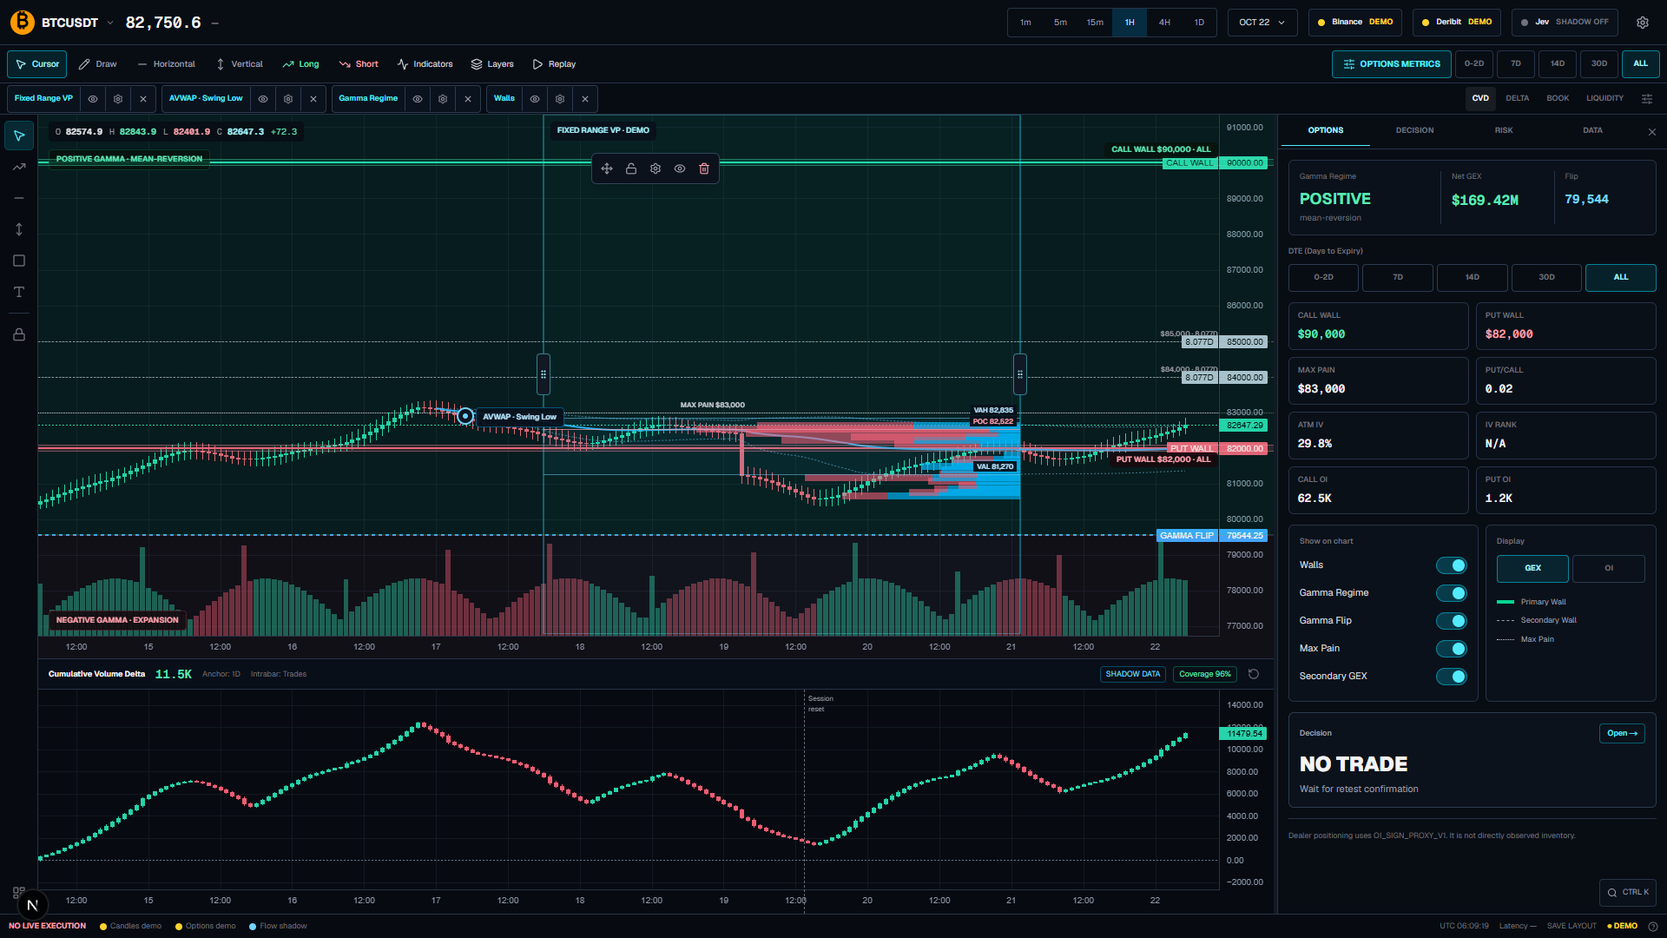
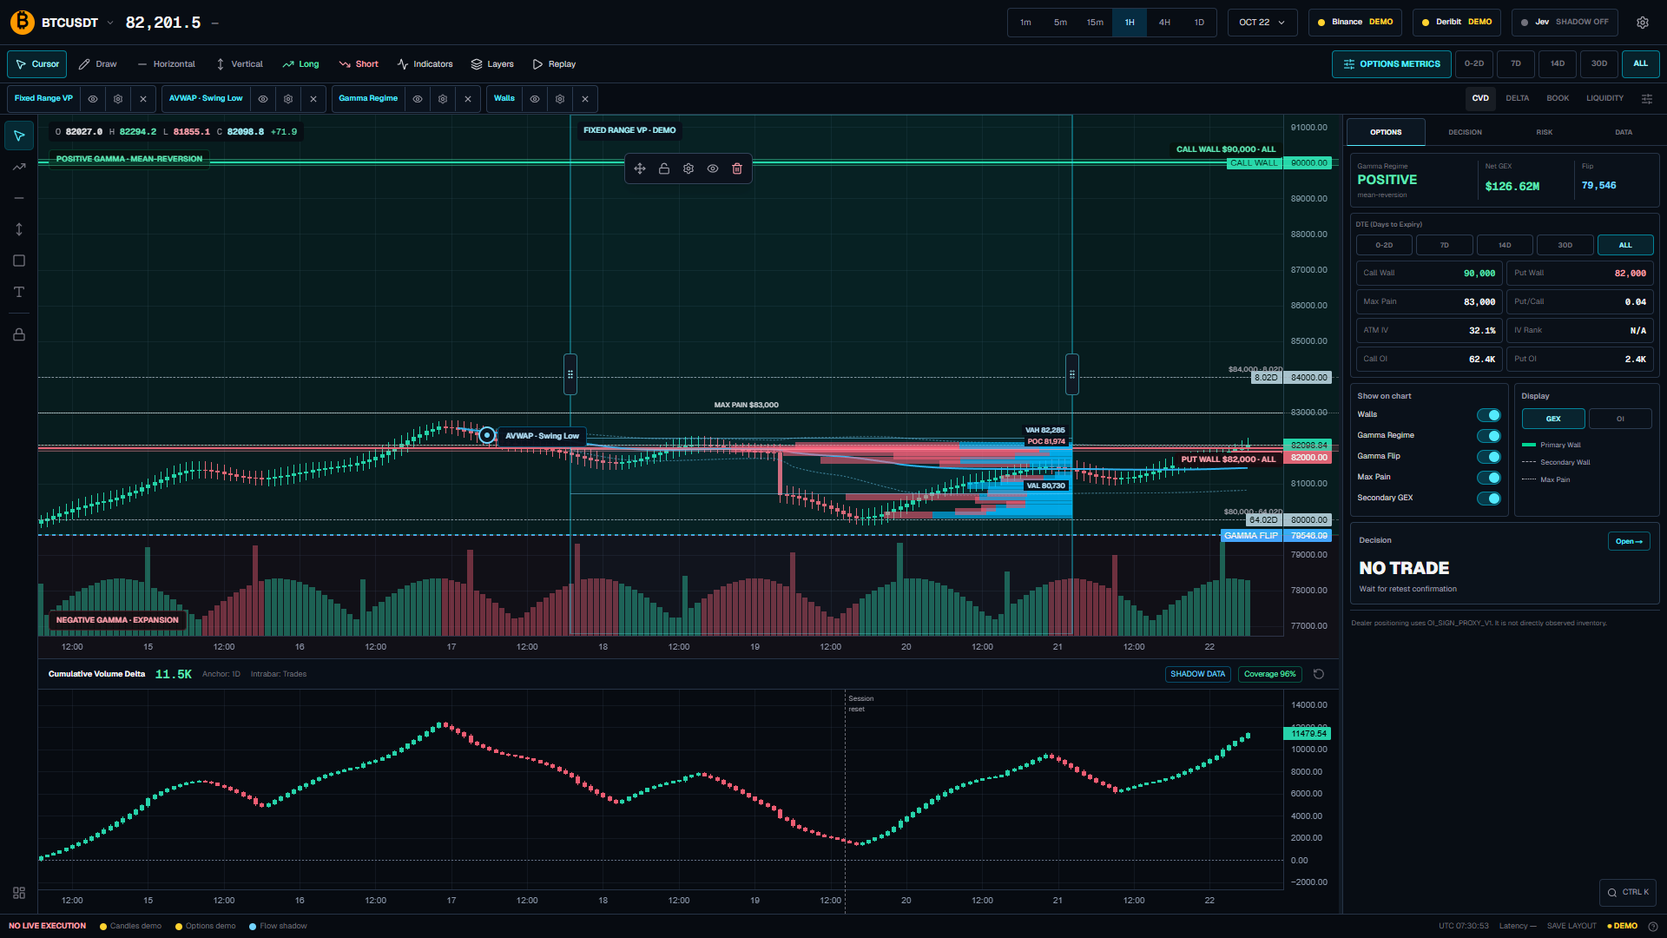
refine compact options inspector

diff --git a/src/components/terminal/MarketTerminal.tsx b/src/components/terminal/MarketTerminal.tsx
@@ -129,8 +129,13 @@ function Metric({ label, value, tone = 'neutral' }: { label: string; value: stri
     return <div className="rounded-md border border-[#253347] bg-[#0a1018] px-2.5 py-2"><div className="truncate text-[9px] font-semibold uppercase text-zinc-500">{label}</div><div className={cn('mt-1 font-mono text-[13px] font-semibold tabular-nums', color)}>{value}</div></div>;
 }
 
-function LayerToggle({ label, checked, onCheckedChange }: { label: string; checked: boolean; onCheckedChange: () => void }) {
-    return <div className="flex items-center justify-between gap-4 py-1.5"><span className="text-[11px] text-zinc-300">{label}</span><Switch.Root aria-label={`Toggle ${label}`} checked={checked} onCheckedChange={onCheckedChange} className="relative h-5 w-9 rounded-full border border-[#2a3748] bg-[#111a25] data-[state=checked]:border-cyan-400/50 data-[state=checked]:bg-cyan-500/25"><Switch.Thumb className="block size-3.5 translate-x-0.5 rounded-full bg-zinc-400 transition-transform duration-150 data-[state=checked]:translate-x-[18px] data-[state=checked]:bg-cyan-300 motion-reduce:transition-none" /></Switch.Root></div>;
+function LayerToggle({ label, checked, onCheckedChange, compact: isCompact = false }: { label: string; checked: boolean; onCheckedChange: () => void; compact?: boolean }) {
+    return <div className={cn('flex items-center justify-between gap-3', isCompact ? 'py-1' : 'py-1.5')}><span className={cn('truncate text-zinc-300', isCompact ? 'text-[9px]' : 'text-[11px]')}>{label}</span><Switch.Root aria-label={`Toggle ${label}`} checked={checked} onCheckedChange={onCheckedChange} className={cn('relative shrink-0 rounded-full border border-[#2a3748] bg-[#111a25] data-[state=checked]:border-cyan-400/50 data-[state=checked]:bg-cyan-500/25', isCompact ? 'h-4 w-7' : 'h-5 w-9')}><Switch.Thumb className={cn('block translate-x-0.5 rounded-full bg-zinc-400 transition-transform duration-150 data-[state=checked]:bg-cyan-300 motion-reduce:transition-none', isCompact ? 'size-3 data-[state=checked]:translate-x-[13px]' : 'size-3.5 data-[state=checked]:translate-x-[18px]')} /></Switch.Root></div>;
+}
+
+function InspectorMetric({ label, value, tone = 'neutral' }: { label: string; value: string; tone?: 'neutral' | 'positive' | 'negative' }) {
+    const color = tone === 'positive' ? 'text-emerald-300' : tone === 'negative' ? 'text-rose-300' : 'text-zinc-100';
+    return <div className="flex min-w-0 items-center justify-between gap-2 rounded border border-[#253347] bg-[#0a1018] px-2 py-1.5"><span className="truncate text-[9px] text-zinc-500">{label}</span><span className={cn('shrink-0 font-mono text-[10px] font-semibold tabular-nums', color)}>{value}</span></div>;
 }
 
 function ToolButton({ active, label, icon: Icon, onClick, tone }: { active?: boolean; label: string; icon: React.ElementType; onClick: () => void; tone?: 'long' | 'short' }) {
@@ -150,13 +155,12 @@ function StudyChip({ label, visible, onToggle, description }: { label: string; v
 function OptionsContent({ metrics, data, isError }: { metrics: MarketMetrics; data: TerrainDataContractV2; isError: boolean }) {
     const { dataMode, dteFilter, setDteFilter, chartLayers, toggleChartLayer, optionsDisplay, setOptionsDisplay, setInspectorTab } = useTerminalStore();
     const decisionReason = Math.abs((metrics.spot - metrics.gammaFlip) / metrics.spot) < 0.012 ? 'Wait for Gamma Flip confirmation' : 'Wait for retest confirmation';
-    return <div className="space-y-3 p-3">
-        <div className="grid grid-cols-[1.25fr_1fr_0.8fr] divide-x divide-[#263346] rounded-md border border-[#263346] bg-[#0a111a] p-3"><div><div className="text-[9px] text-zinc-500">Gamma Regime</div><div className={cn('mt-1 text-lg font-bold', metrics.longGamma ? 'text-emerald-300' : 'text-rose-300')}>{metrics.longGamma ? 'POSITIVE' : 'NEGATIVE'}</div><div className="text-[10px] text-zinc-500">{metrics.longGamma ? 'mean-reversion' : 'expansion'}</div></div><div className="pl-3"><div className="text-[9px] text-zinc-500">Net GEX</div><div className={cn('mt-2 font-mono text-base font-bold tabular-nums', metrics.longGamma ? 'text-emerald-300' : 'text-rose-300')}>{compact(metrics.netGex, '$')}</div></div><div className="pl-3"><div className="text-[9px] text-zinc-500">Flip</div><div className="mt-2 font-mono text-sm font-bold tabular-nums text-sky-300">{Math.round(metrics.gammaFlip).toLocaleString()}</div></div></div>
-        <div><div className="mb-2 text-[9px] font-semibold text-zinc-500">DTE (Days to Expiry)</div><div className="grid grid-cols-5 gap-1">{DTE_FILTERS.map((filter) => <button key={filter} type="button" onClick={() => setDteFilter(filter)} className={cn('h-8 rounded border text-[9px] font-bold', dteFilter === filter ? 'border-cyan-400/55 bg-cyan-400/10 text-cyan-200' : 'border-[#2b3b50] text-zinc-500 hover:text-zinc-200')}>{filter}</button>)}</div></div>
-        <div className="grid grid-cols-2 gap-2"><Metric label="Call Wall" value={`$${Math.round(metrics.callWall).toLocaleString()}`} tone="positive" /><Metric label="Put Wall" value={`$${Math.round(metrics.putWall).toLocaleString()}`} tone="negative" /><Metric label="Max Pain" value={`$${Math.round(metrics.maxPain).toLocaleString()}`} /><Metric label="Put/Call" value={metrics.putCallRatio === undefined ? '—' : metrics.putCallRatio.toFixed(2)} /><Metric label="ATM IV" value={metrics.atmIv === undefined ? '—' : `${(metrics.atmIv > 3 ? metrics.atmIv : metrics.atmIv * 100).toFixed(1)}%`} /><Metric label="IV Rank" value="N/A" /><Metric label="Call OI" value={compact(metrics.callOi)} /><Metric label="Put OI" value={compact(metrics.putOi)} /></div>
-        <div className="grid grid-cols-[1fr_0.9fr] gap-2"><div className="rounded-md border border-[#263346] bg-[#0a111a] p-3"><div className="mb-1 text-[9px] font-semibold text-zinc-500">Show on chart</div><LayerToggle label="Walls" checked={chartLayers.walls} onCheckedChange={() => toggleChartLayer('walls')} /><LayerToggle label="Gamma Regime" checked={chartLayers.gammaRegime} onCheckedChange={() => toggleChartLayer('gammaRegime')} /><LayerToggle label="Gamma Flip" checked={chartLayers.gammaFlip} onCheckedChange={() => toggleChartLayer('gammaFlip')} /><LayerToggle label="Max Pain" checked={chartLayers.maxPain} onCheckedChange={() => toggleChartLayer('maxPain')} /><LayerToggle label="Secondary GEX" checked={chartLayers.secondaryWalls} onCheckedChange={() => toggleChartLayer('secondaryWalls')} /></div><div className="rounded-md border border-[#263346] bg-[#0a111a] p-3"><div className="text-[9px] font-semibold text-zinc-500">Display</div><div className="mt-2 grid grid-cols-2 gap-1">{(['GEX', 'OI'] as const).map((display) => <button key={display} type="button" onClick={() => setOptionsDisplay(display)} className={cn('h-8 rounded border text-[9px] font-bold', optionsDisplay === display ? 'border-cyan-400/55 bg-cyan-400/10 text-cyan-200' : 'border-[#2b3b50] text-zinc-500')}>{display}</button>)}</div><div className="mt-4 space-y-2 text-[9px] text-zinc-400"><div className="flex items-center gap-2"><span className="h-1 w-5 bg-emerald-400" />Primary Wall</div><div className="flex items-center gap-2"><span className="w-5 border-t border-dashed border-zinc-400" />Secondary Wall</div><div className="flex items-center gap-2"><span className="w-5 border-t border-dotted border-zinc-300" />Max Pain</div></div></div></div>
-        <div className="rounded-md border border-[#2a3c50] bg-[#0b121b] p-3"><div className="flex items-center justify-between"><span className="text-[9px] font-semibold text-zinc-400">Decision</span><button type="button" onClick={() => setInspectorTab('DECISION')} className="rounded border border-cyan-400/40 px-2 py-1 text-[9px] font-semibold text-cyan-300">Open →</button></div><div className="mt-2 text-2xl font-black text-zinc-100">NO TRADE</div><p className="mt-1 text-pretty text-[11px] text-zinc-400">{decisionReason}</p></div>
-        <p className="text-pretty border-t border-[#263346] pt-3 text-[9px] leading-relaxed text-zinc-500">Dealer positioning uses {data.assumptionModel}. It is not directly observed inventory. {isError && dataMode === 'LIVE' ? 'Live feed unavailable.' : ''}</p>
+    return <div className="space-y-1.5 p-2">
+        <div className="grid grid-cols-[1.25fr_1fr_0.8fr] divide-x divide-[#263346] rounded border border-[#263346] bg-[#0a111a] p-2"><div><div className="text-[8px] text-zinc-500">Gamma Regime</div><div className={cn('mt-0.5 text-[15px] font-bold leading-none', metrics.longGamma ? 'text-emerald-300' : 'text-rose-300')}>{metrics.longGamma ? 'POSITIVE' : 'NEGATIVE'}</div><div className="mt-1 text-[8px] text-zinc-500">{metrics.longGamma ? 'mean-reversion' : 'expansion'}</div></div><div className="pl-2"><div className="text-[8px] text-zinc-500">Net GEX</div><div className={cn('mt-2 font-mono text-[13px] font-bold tabular-nums', metrics.longGamma ? 'text-emerald-300' : 'text-rose-300')}>{compact(metrics.netGex, '$')}</div></div><div className="pl-2"><div className="text-[8px] text-zinc-500">Flip</div><div className="mt-2 font-mono text-[11px] font-bold tabular-nums text-sky-300">{Math.round(metrics.gammaFlip).toLocaleString()}</div></div></div>
+        <div className="rounded border border-[#263346] bg-[#090f17] p-1.5"><div className="mb-1.5 text-[8px] font-semibold text-zinc-500">DTE (Days to Expiry)</div><div className="grid grid-cols-5 gap-1">{DTE_FILTERS.map((filter) => <button key={filter} type="button" onClick={() => setDteFilter(filter)} className={cn('h-6 rounded border text-[8px] font-bold', dteFilter === filter ? 'border-cyan-400/55 bg-cyan-400/10 text-cyan-200' : 'border-[#2b3b50] text-zinc-500 hover:text-zinc-200')}>{filter}</button>)}</div><div className="mt-1.5 grid grid-cols-2 gap-1"><InspectorMetric label="Call Wall" value={Math.round(metrics.callWall).toLocaleString()} tone="positive" /><InspectorMetric label="Put Wall" value={Math.round(metrics.putWall).toLocaleString()} tone="negative" /><InspectorMetric label="Max Pain" value={Math.round(metrics.maxPain).toLocaleString()} /><InspectorMetric label="Put/Call" value={metrics.putCallRatio === undefined ? '—' : metrics.putCallRatio.toFixed(2)} /><InspectorMetric label="ATM IV" value={metrics.atmIv === undefined ? '—' : `${(metrics.atmIv > 3 ? metrics.atmIv : metrics.atmIv * 100).toFixed(1)}%`} /><InspectorMetric label="IV Rank" value="N/A" /><InspectorMetric label="Call OI" value={compact(metrics.callOi)} /><InspectorMetric label="Put OI" value={compact(metrics.putOi)} /></div></div>
+        <div className="grid grid-cols-[1fr_0.92fr] gap-1.5"><div className="rounded border border-[#263346] bg-[#0a111a] p-2"><div className="mb-0.5 text-[9px] font-semibold text-zinc-400">Show on chart</div><LayerToggle compact label="Walls" checked={chartLayers.walls} onCheckedChange={() => toggleChartLayer('walls')} /><LayerToggle compact label="Gamma Regime" checked={chartLayers.gammaRegime} onCheckedChange={() => toggleChartLayer('gammaRegime')} /><LayerToggle compact label="Gamma Flip" checked={chartLayers.gammaFlip} onCheckedChange={() => toggleChartLayer('gammaFlip')} /><LayerToggle compact label="Max Pain" checked={chartLayers.maxPain} onCheckedChange={() => toggleChartLayer('maxPain')} /><LayerToggle compact label="Secondary GEX" checked={chartLayers.secondaryWalls} onCheckedChange={() => toggleChartLayer('secondaryWalls')} /></div><div className="rounded border border-[#263346] bg-[#0a111a] p-2"><div className="text-[9px] font-semibold text-zinc-400">Display</div><div className="mt-1.5 grid grid-cols-2 gap-1">{(['GEX', 'OI'] as const).map((display) => <button key={display} type="button" onClick={() => setOptionsDisplay(display)} className={cn('h-6 rounded border text-[8px] font-bold', optionsDisplay === display ? 'border-cyan-400/55 bg-cyan-400/10 text-cyan-200' : 'border-[#2b3b50] text-zinc-500')}>{display}</button>)}</div><div className="mt-3 space-y-2 text-[8px] text-zinc-400"><div className="flex items-center gap-1.5"><span className="h-1 w-4 bg-emerald-400" />Primary Wall</div><div className="flex items-center gap-1.5"><span className="w-4 border-t border-dashed border-zinc-400" />Secondary Wall</div><div className="flex items-center gap-1.5"><span className="w-4 border-t border-dotted border-zinc-300" />Max Pain</div></div></div></div>
+        <div className="rounded border border-[#2a3c50] bg-[#0b121b] p-2.5"><div className="flex items-center justify-between"><span className="text-[9px] font-semibold text-zinc-400">Decision</span><button type="button" onClick={() => setInspectorTab('DECISION')} className="rounded border border-cyan-400/40 px-2 py-1 text-[8px] font-semibold text-cyan-300">Open →</button></div><div className="mt-1.5 text-xl font-black text-zinc-100">NO TRADE</div><p className="mt-1 text-pretty text-[9px] text-zinc-400">{decisionReason}</p></div>
+        <p className="border-t border-[#263346] px-0.5 pt-2 text-pretty text-[8px] leading-relaxed text-zinc-500">Dealer positioning uses {data.assumptionModel}. It is not directly observed inventory. {isError && dataMode === 'LIVE' ? 'Live feed unavailable.' : ''}</p>
     </div>;
 }
 
@@ -164,7 +168,7 @@ function Inspector({ metrics, data, isError, onClose }: { metrics: MarketMetrics
     const { inspectorTab, setInspectorTab, dataMode } = useTerminalStore();
     const timestamp = new Date(data.timestamp).toLocaleString(undefined, { hour12: false });
     return <Tabs.Root value={inspectorTab} onValueChange={(value) => setInspectorTab(value as typeof inspectorTab)} className="h-full">
-        <div className="sticky top-0 z-20 flex h-10 items-center border-b border-[#263346] bg-[#080d14]"><Tabs.List className="grid flex-1 grid-cols-4 px-1">{(['OPTIONS', 'DECISION', 'RISK', 'DATA'] as const).map((tab) => <Tabs.Trigger key={tab} value={tab} className="h-8 border-b border-transparent text-[9px] font-bold text-zinc-500 data-[state=active]:border-cyan-300 data-[state=active]:text-cyan-200">{tab}</Tabs.Trigger>)}</Tabs.List><button type="button" onClick={onClose} aria-label="Close options metrics" className="mr-1 rounded p-1.5 text-zinc-500 hover:bg-white/5 hover:text-zinc-200"><X className="size-3.5" /></button></div>
+        <div className="sticky top-0 z-20 flex h-9 items-center border-b border-[#263346] bg-[#080d14]"><Tabs.List className="grid h-full flex-1 grid-cols-4 px-1">{(['OPTIONS', 'DECISION', 'RISK', 'DATA'] as const).map((tab) => <Tabs.Trigger key={tab} value={tab} className="mt-1 h-8 rounded-t border border-transparent text-[8px] font-bold text-zinc-500 data-[state=active]:border-[#2c4157] data-[state=active]:border-b-cyan-300 data-[state=active]:bg-[#0c1722] data-[state=active]:text-zinc-100">{tab}</Tabs.Trigger>)}</Tabs.List><button type="button" onClick={onClose} aria-label="Close options metrics" className="mr-1 rounded p-1.5 text-zinc-500 hover:bg-white/5 hover:text-zinc-200 md:hidden"><X className="size-3.5" /></button></div>
         <Tabs.Content value="OPTIONS" className="outline-none"><OptionsContent metrics={metrics} data={data} isError={isError} /></Tabs.Content>
         <Tabs.Content value="DECISION" className="space-y-3 p-3 outline-none"><div className="rounded-md border border-cyan-400/25 bg-cyan-400/[0.05] p-3"><div className="flex items-center justify-between"><span className="text-[9px] font-bold text-cyan-200">DETERMINISTIC BASELINE</span><span className="rounded border border-zinc-600 px-1.5 py-0.5 text-[8px] text-zinc-400">OBSERVE</span></div><div className="mt-3 text-2xl font-black">NO TRADE</div><p className="mt-2 text-pretty text-[10px] leading-relaxed text-zinc-400">Wait for price to retest a structural level and confirm acceptance or rejection. Chart position alone does not generate a trade.</p></div><div className="rounded-md border border-amber-400/25 bg-amber-400/[0.04] p-3"><div className="flex items-center justify-between"><span className="text-[9px] font-bold text-amber-200">JEV SHADOW OPINION</span><span className="text-[8px] text-amber-300">UNAVAILABLE</span></div><p className="mt-2 text-pretty text-[10px] leading-relaxed text-zinc-500">The repository exposes no Jev response contract to this frontend. No AI opinion is invented.</p></div><div className="rounded-md border border-[#263346] p-3 text-[9px] text-zinc-500"><div className="mb-2 font-semibold text-zinc-300">Evidence required before promotion</div><ul className="space-y-1"><li>• Replay-safe deterministic agreement</li><li>• Calibrated confidence and abstention</li><li>• Timestamped source provenance</li></ul></div></Tabs.Content>
         <Tabs.Content value="RISK" className="space-y-3 p-3 outline-none"><div className="flex items-center gap-2 rounded-md border border-rose-400/25 bg-rose-400/[0.05] p-3 text-rose-200"><ShieldAlert className="size-4" /><span className="text-[10px] font-bold">NO LIVE EXECUTION</span></div><Metric label="Distance to Call Wall" value={`${(((metrics.callWall - metrics.spot) / metrics.spot) * 100).toFixed(2)}%`} /><Metric label="Distance to Put Wall" value={`${(((metrics.spot - metrics.putWall) / metrics.spot) * 100).toFixed(2)}%`} /><Metric label="Contracts Observed" value={metrics.contractsCount?.toLocaleString() ?? '—'} /><p className="text-pretty text-[9px] leading-relaxed text-zinc-500">Risk tools are observational. Long and Short chart tools are measurements, not order-entry controls.</p></Tabs.Content>
@@ -246,7 +250,7 @@ export default function MarketTerminal({ data, isError }: MarketTerminalProps) {
         <div className="flex h-9 shrink-0 items-center gap-1.5 overflow-x-auto border-b border-[#263346] bg-[#070c13] px-2"><StudyChip label="Fixed Range VP" visible={chartLayers.volumeProfile} onToggle={() => toggleChartLayer('volumeProfile')} description="Movable selected-range profile with POC, VAH, VAL, and configurable row density." /><StudyChip label="AVWAP · Swing Low" visible={chartLayers.avwap} onToggle={() => toggleChartLayer('avwap')} description="Anchored VWAP with draggable candle anchor and one-standard-deviation bands." /><StudyChip label="Gamma Regime" visible={chartLayers.gammaRegime} onToggle={() => toggleChartLayer('gammaRegime')} description="Positive and negative gamma behavior zones separated by the Gamma Flip." /><StudyChip label="Walls" visible={chartLayers.walls} onToggle={() => toggleChartLayer('walls')} description="Primary call and put walls plus optional secondary GEX levels." /><div className="ml-auto hidden items-center gap-1 lg:flex">{ORDER_FLOW_TABS.map((study) => <button key={study} type="button" onClick={() => { setStudyPaneOpen(true); setActiveOrderFlowStudy(study); }} className={cn('h-7 rounded px-2 text-[9px] font-semibold text-zinc-500', activeOrderFlowStudy === study && studyPaneOpen && 'bg-white/7 text-zinc-100')}>{study}</button>)}<button type="button" onClick={() => setStudyPaneOpen(!studyPaneOpen)} aria-label={studyPaneOpen ? 'Hide lower study pane' : 'Show lower study pane'} className="rounded p-2 text-zinc-500 hover:text-zinc-200"><SlidersHorizontal className="size-3.5" /></button></div></div>
 
         <div className="flex min-h-0 flex-1"><nav className="hidden w-11 shrink-0 flex-col items-center gap-1 border-r border-[#263346] bg-[#070b11] py-2 md:flex" aria-label="Chart drawing tools">{DRAWING_TOOLS.map(({ id, label, icon: Icon }) => <Tooltip.Root key={id}><Tooltip.Trigger asChild><button type="button" aria-label={label} aria-pressed={activeTool === id} onClick={() => setActiveTool(id)} className={cn('flex size-8 items-center justify-center rounded text-zinc-500 hover:bg-white/5 hover:text-zinc-100', activeTool === id && 'bg-cyan-400/15 text-cyan-300 ring-1 ring-cyan-400/30')}><Icon className="size-4" /></button></Tooltip.Trigger><Tooltip.Portal><Tooltip.Content side="right" sideOffset={8} className="z-50 rounded bg-zinc-100 px-2 py-1 text-[10px] text-zinc-900">{label}</Tooltip.Content></Tooltip.Portal></Tooltip.Root>)}<div className="my-1 h-px w-6 bg-[#263346]" /><Tooltip.Root><Tooltip.Trigger asChild><button type="button" aria-label="Lock chart objects" className="flex size-8 items-center justify-center rounded text-zinc-500 hover:bg-white/5"><Lock className="size-4" /></button></Tooltip.Trigger><Tooltip.Portal><Tooltip.Content side="right" className="z-50 rounded bg-zinc-100 px-2 py-1 text-[10px] text-zinc-900">Object locking is available on selected studies</Tooltip.Content></Tooltip.Portal></Tooltip.Root><div className="mt-auto"><DropdownMenu.Root><DropdownMenu.Trigger asChild><button type="button" aria-label="Switch workspace" className="flex size-8 items-center justify-center rounded text-zinc-500 hover:bg-white/5"><LayoutDashboard className="size-4" /></button></DropdownMenu.Trigger><DropdownMenu.Portal><DropdownMenu.Content side="right" sideOffset={7} className="z-50 w-48 rounded-md border border-[#33445a] bg-[#0b121c] p-1 shadow-lg">{WORKSPACES.map(({ id, label, icon: Icon }) => <DropdownMenu.Item key={id} onSelect={() => setActiveWorkspace(id)} className="flex cursor-default items-center gap-2 rounded px-2 py-2 text-[10px] text-zinc-300 outline-none data-[highlighted]:bg-cyan-400/10"><Icon className="size-3.5" />{label}</DropdownMenu.Item>)}</DropdownMenu.Content></DropdownMenu.Portal></DropdownMenu.Root></div></nav>
-            <main className="min-w-0 flex-1"><Group orientation="horizontal" id="market-layout" defaultLayout={{ chart: 76, inspector: 24 }} onLayoutChanged={(layout) => localStorage.setItem('btc-terminal-panels-v2', JSON.stringify(layout))}><Panel id="chart" minSize="55%" defaultSize="76%"><MarketStructureChart data={data} activeTool={activeTool} timeframe={timeframe} replayActive={replayActive} /></Panel>{inspectorOpen && isDesktop && <><Separator aria-label="Resize options inspector" aria-valuemin={55} aria-valuemax={90} aria-valuenow={76} className="group relative w-1 bg-[#111a25] outline-none hover:bg-cyan-400/40 focus-visible:bg-cyan-400/60"><span className="absolute inset-y-0 -left-1 -right-1" /></Separator><Panel id="inspector" minSize="310px" maxSize="38%" defaultSize="24%" groupResizeBehavior="preserve-pixel-size"><aside className="h-full overflow-y-auto border-l border-[#263346] bg-[#080d14]"><Inspector metrics={metrics} data={data} isError={isError} onClose={() => setInspectorOpen(false)} /></aside></Panel></>}</Group></main>
+            <main className="min-w-0 flex-1"><Group orientation="horizontal" id="market-layout" defaultLayout={{ chart: 80, inspector: 20 }} onLayoutChanged={(layout) => localStorage.setItem('btc-terminal-panels-v2', JSON.stringify(layout))}><Panel id="chart" minSize="58%" defaultSize="80%"><MarketStructureChart data={data} activeTool={activeTool} timeframe={timeframe} replayActive={replayActive} /></Panel>{inspectorOpen && isDesktop && <><Separator aria-label="Resize options inspector" aria-valuemin={58} aria-valuemax={90} aria-valuenow={80} className="group relative w-1 bg-[#111a25] outline-none hover:bg-cyan-400/40 focus-visible:bg-cyan-400/60"><span className="absolute inset-y-0 -left-1 -right-1" /></Separator><Panel id="inspector" minSize="300px" maxSize="34%" defaultSize="20%" groupResizeBehavior="preserve-pixel-size"><aside className="h-full overflow-y-auto border-l border-[#263346] bg-[#080d14]"><Inspector metrics={metrics} data={data} isError={isError} onClose={() => setInspectorOpen(false)} /></aside></Panel></>}</Group></main>
         </div>
 
         <footer className="flex h-7 shrink-0 items-center justify-between border-t border-[#263346] bg-[#070b11] px-2.5 text-[9px] text-zinc-500"><div className="flex min-w-0 items-center gap-4"><span className="font-bold text-rose-300">NO LIVE EXECUTION</span><span className="hidden items-center gap-1 sm:flex"><span className="size-2 rounded-full bg-amber-300" />Candles demo</span><span className="hidden items-center gap-1 md:flex"><span className={cn('size-2 rounded-full', deribitState === 'LIVE' ? 'bg-emerald-300' : 'bg-amber-300')} />Options {deribitState.toLowerCase()}</span><span className="hidden items-center gap-1 lg:flex"><span className="size-2 rounded-full bg-sky-300" />Flow shadow</span></div><div className="flex items-center gap-3"><span className="hidden sm:inline">UTC {utcNow}</span><span className="hidden lg:inline">Latency —</span><button type="button" onClick={saveLayout} className="hover:text-zinc-200">SAVE LAYOUT</button>{savedAt && <span className="hidden text-emerald-300 xl:inline">Saved {savedAt}</span>}<button type="button" onClick={() => setDataMode(dataMode === 'DEMO' ? 'LIVE' : 'DEMO')} className={cn('font-bold', dataMode === 'DEMO' ? 'text-amber-300' : 'text-emerald-300')}>● {dataMode}</button><CircleHelp className="size-3" /></div></footer>
